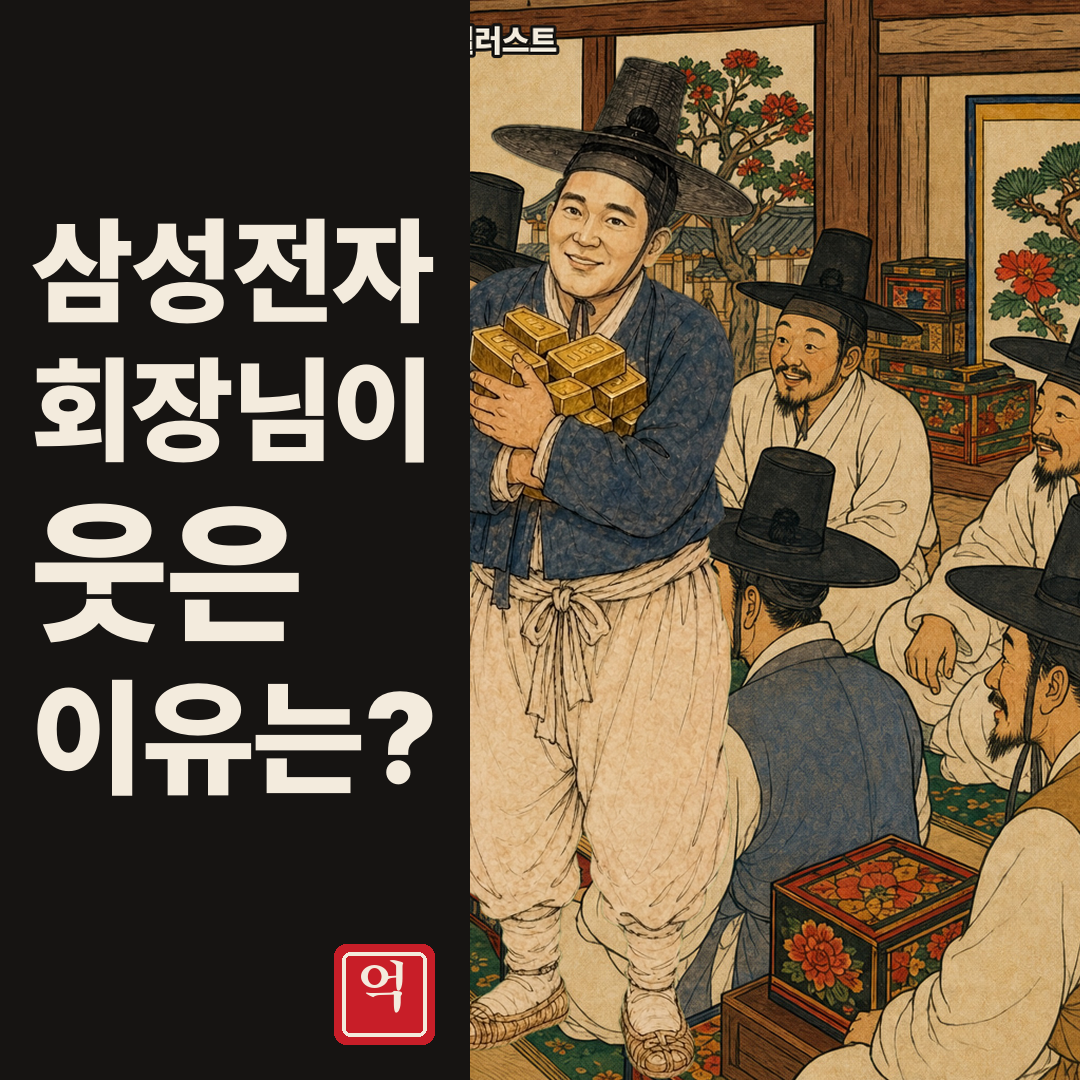
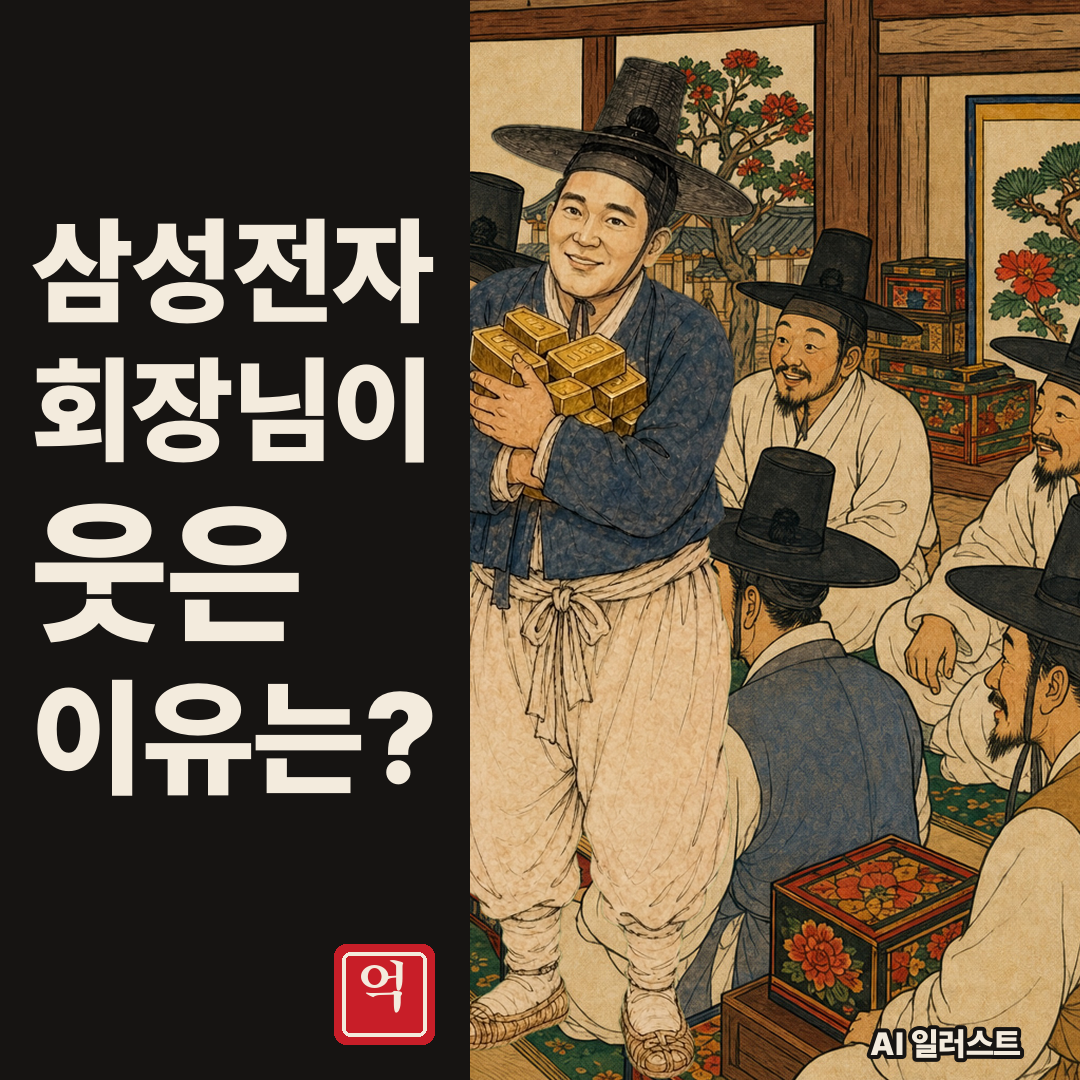
[no preview] 머리 바꾸기 썸네일: 'AI 일러스트' 표시가 잘리지 않게 그림 쪽 오른쪽 아래로 (#219)
Claude-Session: https://claude.ai/code/session_01HNJTaMMcXgMjQhv2iW7WGc

Changed region(s): [[0.7944, 0.9472, 0.9472, 1.0], [0.4278, 0.0, 0.5194, 0.0611]]

diff --git a/content/head_swap.py b/content/head_swap.py
@@ -134,15 +134,16 @@ def sheet(log: list[str]) -> None:
         fig = fig.crop(fig.getbbox())
         fig.thumbnail((int(bg.width * 0.5), int(bg.height * 0.95)))
         bg.alpha_composite(fig, (int(bg.width * 0.45), bg.height - fig.height))
-        dd = ImageDraw.Draw(bg)
-        dd.text((int(bg.width * 0.46), 20), "AI 일러스트", font=ImageFont.truetype(
-            str(ROOT / "assets" / "fonts" / "Pretendard-Black.otf"), 30), fill=(243, 235, 221),
-            stroke_width=3, stroke_fill=(22, 20, 18))
         tmp = OUT / "_lee-bg.png"
         bg.convert("RGB").save(tmp)
         thumb(tmp, ["삼성전자", "회장님이", "웃은", "이유는?"], "", OUT / "썸네일-이재용.png", panel="먹", side="left",
               focus=0.8)
         tmp.unlink()
+        t = Image.open(OUT / "썸네일-이재용.png").convert("RGB")  # 'AI 일러스트' 표시: 그림 쪽 오른쪽 아래(잘리지 않게)
+        ImageDraw.Draw(t).text((t.width - 210, t.height - 56), "AI 일러스트", font=ImageFont.truetype(
+            str(ROOT / "assets" / "fonts" / "Pretendard-Black.otf"), 32), fill=(243, 235, 221),
+            stroke_width=4, stroke_fill=(22, 20, 18))
+        t.save(OUT / "썸네일-이재용.png")
         log.append("- 썸네일 시안: 썸네일-이재용.png")
 
 

diff --git a/reports/쇼츠-시안/머리바꾸기/결과-2026-10-05.md b/reports/쇼츠-시안/머리바꾸기/결과-2026-10-05.md
@@ -1,7 +1,3 @@
 # 머리 바꾸기 시험 (2026-10-05)
 
-- lee-jaeyong: gemini-3-pro-image-preview 18초
-- kevin-warsh: gemini-3-pro-image-preview 17초
-- gold-toad: gemini-3-pro-image-preview 18초
-- coin-dokkaebi: gemini-3-pro-image-preview 17초
 - 썸네일 시안: 썸네일-이재용.png
